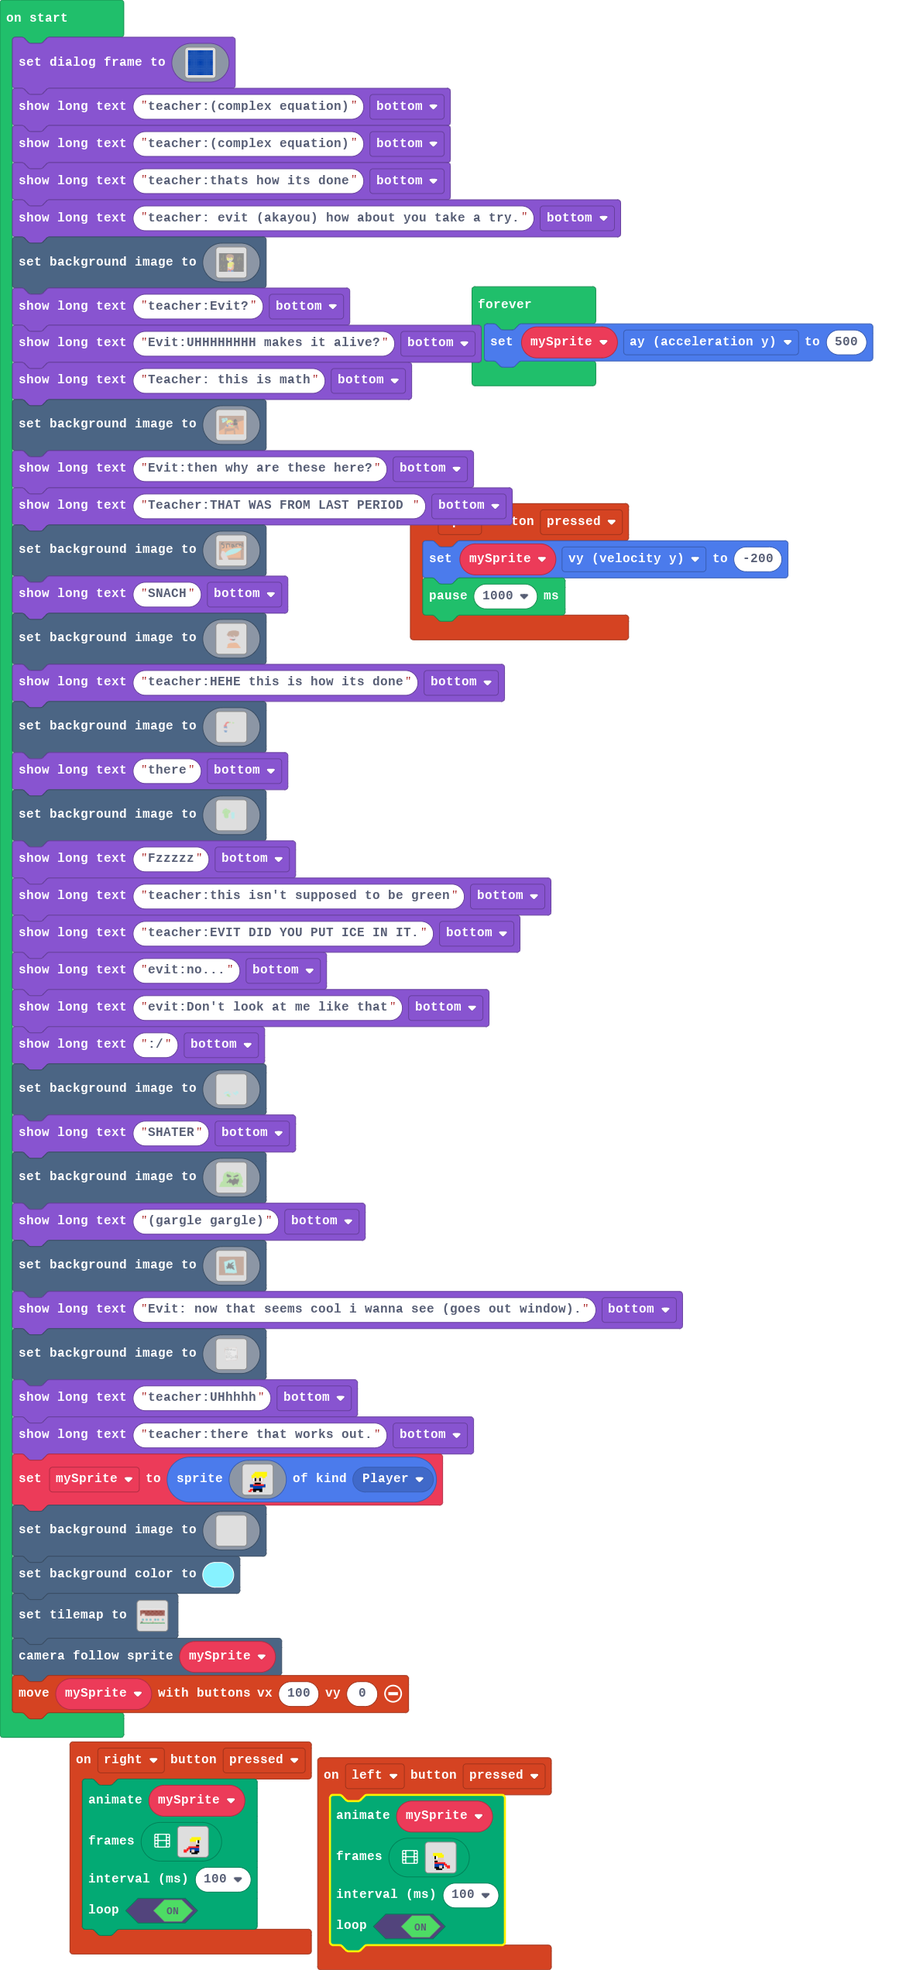
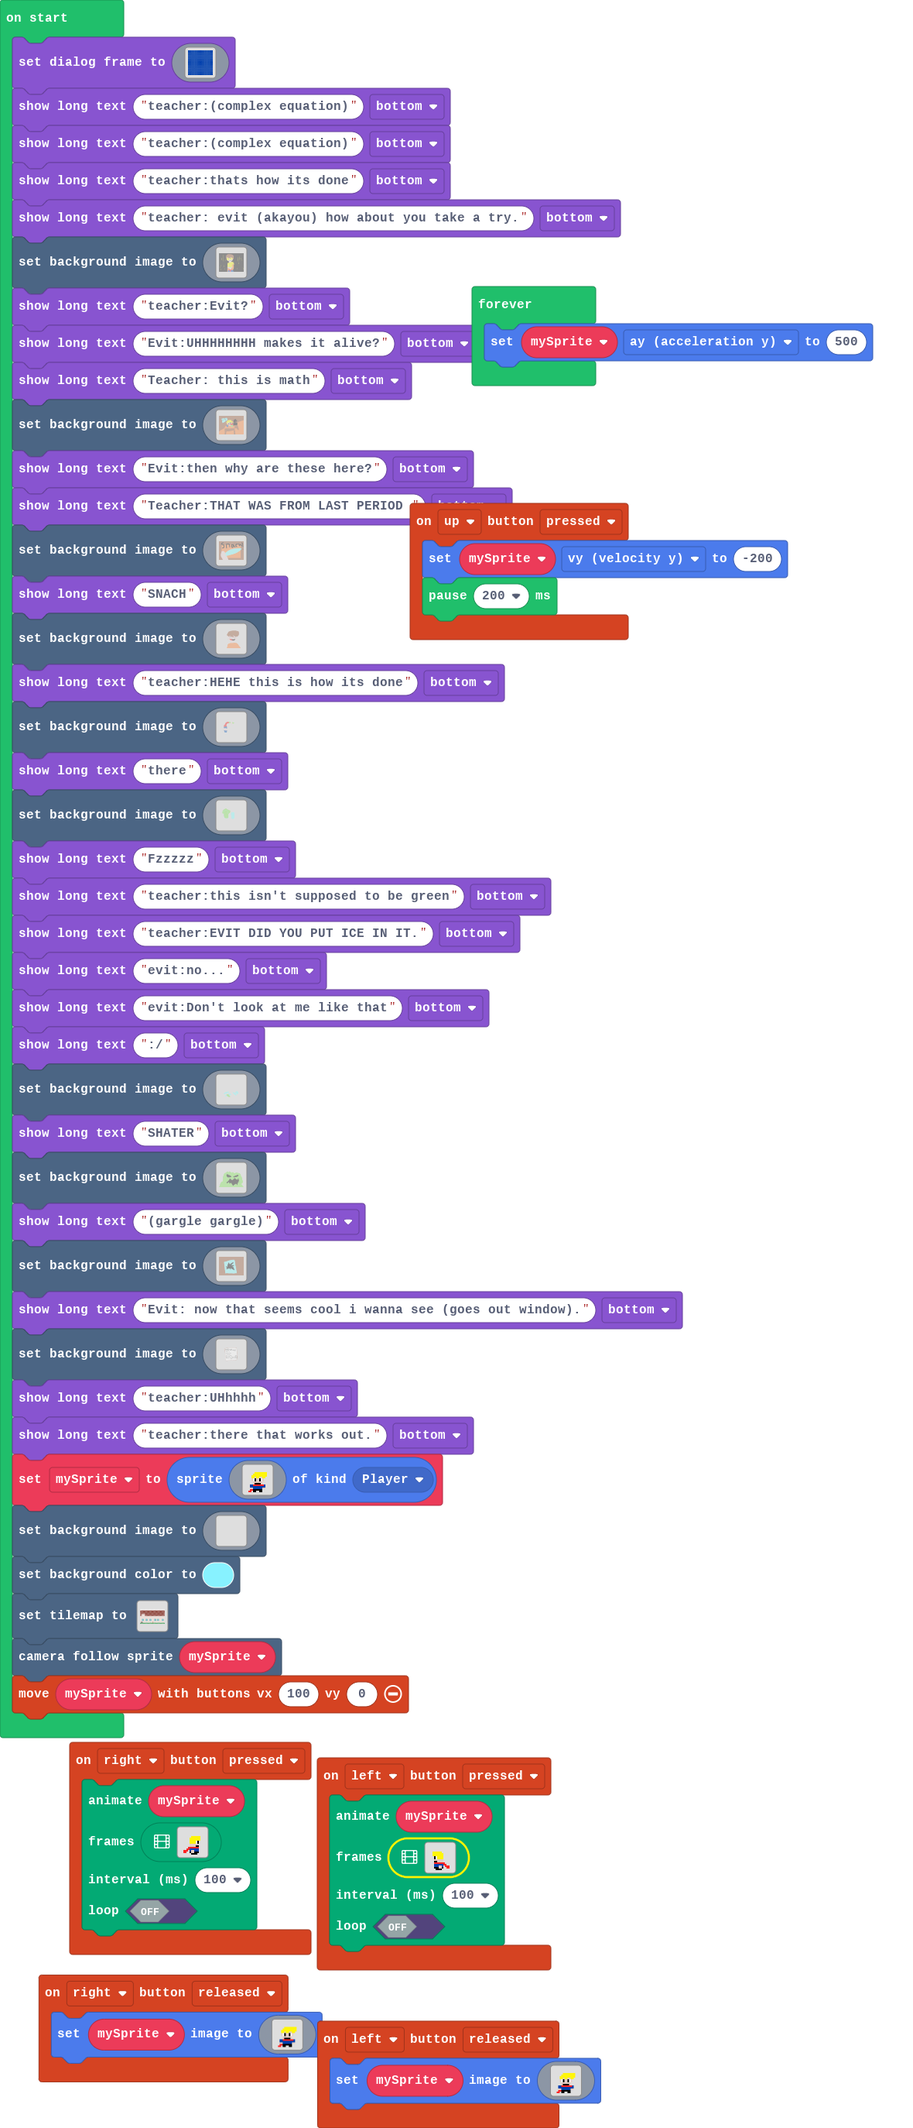
Update pxt.json, main.blocks, main.ts, images.g.jres, images.g.ts

diff --git a/images.g.ts b/images.g.ts
@@ -199,128 +199,6 @@ e4444444444444444444444444444444444444eeeeeeeeeeee444444444444444444444444444444
[2 lines of base64/hex data omitted]
 `;
-            case "image7":return img`
-................................................................................................................................................................
-................................................................................................................................................................
-................................................................................................................................................................
-................................................................................................................................................................
-................................................................................................................................................................
-................................................................................................................................................................
-................................................................................................................................................................
-................................................................................................................................................................
-................................................................................................................................................................
-................................................................................................................................................................
-................................................................................................................................................................
-................................................................................................................................................................
-................................................................................................................................................................
-................................................................................................................................................................
-................................................................................................................................................................
-................................................................................................................................................................
-................................................................................................................................................................
-................................................................................................................................................................
-................................................................................................................................................................
-................................................................................................................................................................
-................................................................................................................................................................
-................................................................................................................................................................
-................................................................................................................................................................
-................................................................................................................................................................
-................................................................................................................................................................
-................................................................................................................................................................
-................................................................................................................................................................
-................................................................................................................................................................
-................................................................................................................................................................
-................................................................................................................................................................
-................................................................................................................................................................
-................................................................................................................................................................
-................................................................................................................................................................
-................................................................................................................................................................
-................................................................................................................................................................
-................................................................................................................................................................
-................................................................................................................................................................
-................................................................................................................................................................
-................................................................................................................................................................
-................................................................................................................................................................
-................................................................................................................................................................
-................................................................................................................................................................
-................................................................................................................................................................
-................................................................................................................................................................
-................................................................................................................................................................
-................................................................................................................................................................
-................................................................................................................................................................
-................................................................................................................................................................
-................................................................................................................................................................
-................................................................................................................................................................
-................................................................................................................................................................
-................................................................................................................................................................
-................................................................................................................................................................
-................................................................................................................................................................
-................................................................................................................................................................
-................................................................................................................................................................
-................................................................................................................................................................
-................................................................................................................................................................
-................................................................................................................................................................
-................................................................................................................................................................
-................................................................................................................................................................
-................................................................................................................................................................
-................................................................................................................................................................
-................................................................................................................................................................
-................................................................................................................................................................
-................................................................................................................................................................
-................................................................................................................................................................
-................................................................................................................................................................
-................................................................................................................................................................
-................................................................................................................................................................
-................................................................................................................................................................
-................................................................................................................................................................
-................................................................................................................................................................
-................................................................................................................................................................
-................................................................................................................................................................
-................................................................................................................................................................
-................................................................................................................................................................
-................................................................................................................................................................
-................................................................................................................................................................
-................................................................................................................................................................
-................................................................................................................................................................
-................................................................................................................................................................
-................................................................................................................................................................
-................................................................................................................................................................
-................................................................................................................................................................
-................................................................................................................................................................
-................................................................................................................................................................
-................................................................................................................................................................
-................................................................................................................................................................
-................................................................................................................................................................
-................................................................................................................................................................
-................................................................................................................................................................
-................................................................................................................................................................
-................................................................................................................................................................
-................................................................................................................................................................
-................................................................................................................................................................
-................................................................................................................................................................
-................................................................................................................................................................
-................................................................................................................................................................
-................................................................................................................................................................
-................................................................................................................................................................
-................................................................................................................................................................
-................................................................................................................................................................
-................................................................................................................................................................
-................................................................................................................................................................
-................................................................................................................................................................
-................................................................................................................................................................
-................................................................................................................................................................
-................................................................................................................................................................
-................................................................................................................................................................
-................................................................................................................................................................
-................................................................................................................................................................
-................................................................................................................................................................
-................................................................................................................................................................
-................................................................................................................................................................
-................................................................................................................................................................
-................................................................................................................................................................
-................................................................................................................................................................
-................................................................................................................................................................
-................................................................................................................................................................
-`;
             case "image8":return img`
 eeeeeeeeeeeeeeeeeeeeeeeeeeeeeeeeeeeeeeeeeeeeeeeeeeeeeeeeeeeeeeeeeeeeeeeeeeeeeeeeeeeeeeeeeeeeeeeeeeeeeeeeeeeeeeeeeeeeeeeeeeeeeeeeeeeeeeeeeeeeeeeeeeeeeeeeeeeeeeee
 eeeeeeeeeeeeeeeeeeeeeeeeeeeeeeeeeeeeeeeeeeeeeeeeeeeeeeeeeeeeeeeeeeeeeeeeeeeeeeeeeeeeeeeeeeeeeeeeeeeeeeeeeeeeeeeeeeeeeeeeeeeeeeeeeeeeeeeeeeeeeeeeeeeeeeeeeeeeeeee
@@ -1960,11 +1838,11 @@ eeeeeeeeeeeeeeeeeeeeeeeeeeeeeeeeeeeeeeeeeeeeeeeeeeeeeeeeeeeeeeeeeeeeeeeeeeeeeeee
 . . . . . . . . . . . . . . . . 
 . . . . . . . . . . . . . . . . 
 . . . . . . . . . . . . . . . . 
-. . . . . . . . . . . . . . . . 
 . . . . . . . 5 5 5 5 5 5 . . . 
 . . . . . . 5 5 5 5 5 5 5 . . . 
+. . . . . . 5 5 5 5 5 5 5 . . . 
 . . . . . . 5 5 5 5 1 f . . . . 
-. . . . . . d d d d 1 f . . . . 
+. . . . . . 5 5 5 5 1 f . . . . 
 . . . . . . d d d d d d . . . . 
 . . . . . . d d d d f f . . . . 
 . . . . . 2 2 2 2 2 2 2 . . . . 
@@ -1977,11 +1855,11 @@ eeeeeeeeeeeeeeeeeeeeeeeeeeeeeeeeeeeeeeeeeeeeeeeeeeeeeeeeeeeeeeeeeeeeeeeeeeeeeeee
 . . . . . . . . . . . . . . . . 
 . . . . . . . . . . . . . . . . 
 . . . . . . . . . . . . . . . . 
-. . . . . . . . . . . . . . . . 
 . . . . . . . 5 5 5 5 5 5 . . . 
 . . . . . . 5 5 5 5 5 5 5 . . . 
+. . . . . . 5 5 5 5 5 5 5 . . . 
 . . . . . . 5 5 5 5 1 f . . . . 
-. . . . . . d d d d 1 f . . . . 
+. . . . . . 5 5 5 5 1 f . . . . 
 . . . . . . d d d d d d . . . . 
 . . . . . . d d d d f f . . . . 
 . . . . . . 2 2 2 2 2 2 . . . . 
@@ -1996,11 +1874,11 @@ eeeeeeeeeeeeeeeeeeeeeeeeeeeeeeeeeeeeeeeeeeeeeeeeeeeeeeeeeeeeeeeeeeeeeeeeeeeeeeee
 . . . . . . . . . . . . . . . . 
 . . . . . . . . . . . . . . . . 
 . . . . . . . . . . . . . . . . 
-. . . . . . . . . . . . . . . . 
 . . . 5 5 5 5 5 5 . . . . . . . 
 . . . 5 5 5 5 5 5 5 . . . . . . 
+. . . 5 5 5 5 5 5 5 . . . . . . 
 . . . . f 1 5 5 5 5 . . . . . . 
-. . . . f 1 d d d d . . . . . . 
+. . . . f 1 5 5 5 5 . . . . . . 
 . . . . d d d d d d . . . . . . 
 . . . . f f d d d d . . . . . . 
 . . . . 2 2 2 2 2 2 2 . . . . . 
@@ -2013,11 +1891,11 @@ eeeeeeeeeeeeeeeeeeeeeeeeeeeeeeeeeeeeeeeeeeeeeeeeeeeeeeeeeeeeeeeeeeeeeeeeeeeeeeee
 . . . . . . . . . . . . . . . . 
 . . . . . . . . . . . . . . . . 
 . . . . . . . . . . . . . . . . 
-. . . . . . . . . . . . . . . . 
 . . . 5 5 5 5 5 5 . . . . . . . 
 . . . 5 5 5 5 5 5 5 . . . . . . 
+. . . 5 5 5 5 5 5 5 . . . . . . 
 . . . . f 1 5 5 5 5 . . . . . . 
-. . . . f 1 d d d d . . . . . . 
+. . . . f 1 5 5 5 5 . . . . . . 
 . . . . d d d d d d . . . . . . 
 . . . . f f d d d d . . . . . . 
 . . . . 2 2 2 2 2 2 . . . . . . 

diff --git a/main.ts b/main.ts
@@ -1,21 +1,27 @@
 controller.up.onEvent(ControllerButtonEvent.Pressed, function () {
     mySprite.vy = -200
-    pause(1000)
+    pause(200)
 })
 controller.left.onEvent(ControllerButtonEvent.Pressed, function () {
     animation.runImageAnimation(
     mySprite,
     assets.animation`myAnim4`,
     100,
-    true
+    false
     )
+})
+controller.right.onEvent(ControllerButtonEvent.Released, function () {
+    mySprite.setImage(assets.image`evit`)
+})
+controller.left.onEvent(ControllerButtonEvent.Released, function () {
+    mySprite.setImage(assets.image`evit`)
 })
 controller.right.onEvent(ControllerButtonEvent.Pressed, function () {
     animation.runImageAnimation(
     mySprite,
     assets.animation`myAnim`,
     100,
-    true
+    false
     )
 })
 let mySprite: Sprite = null
